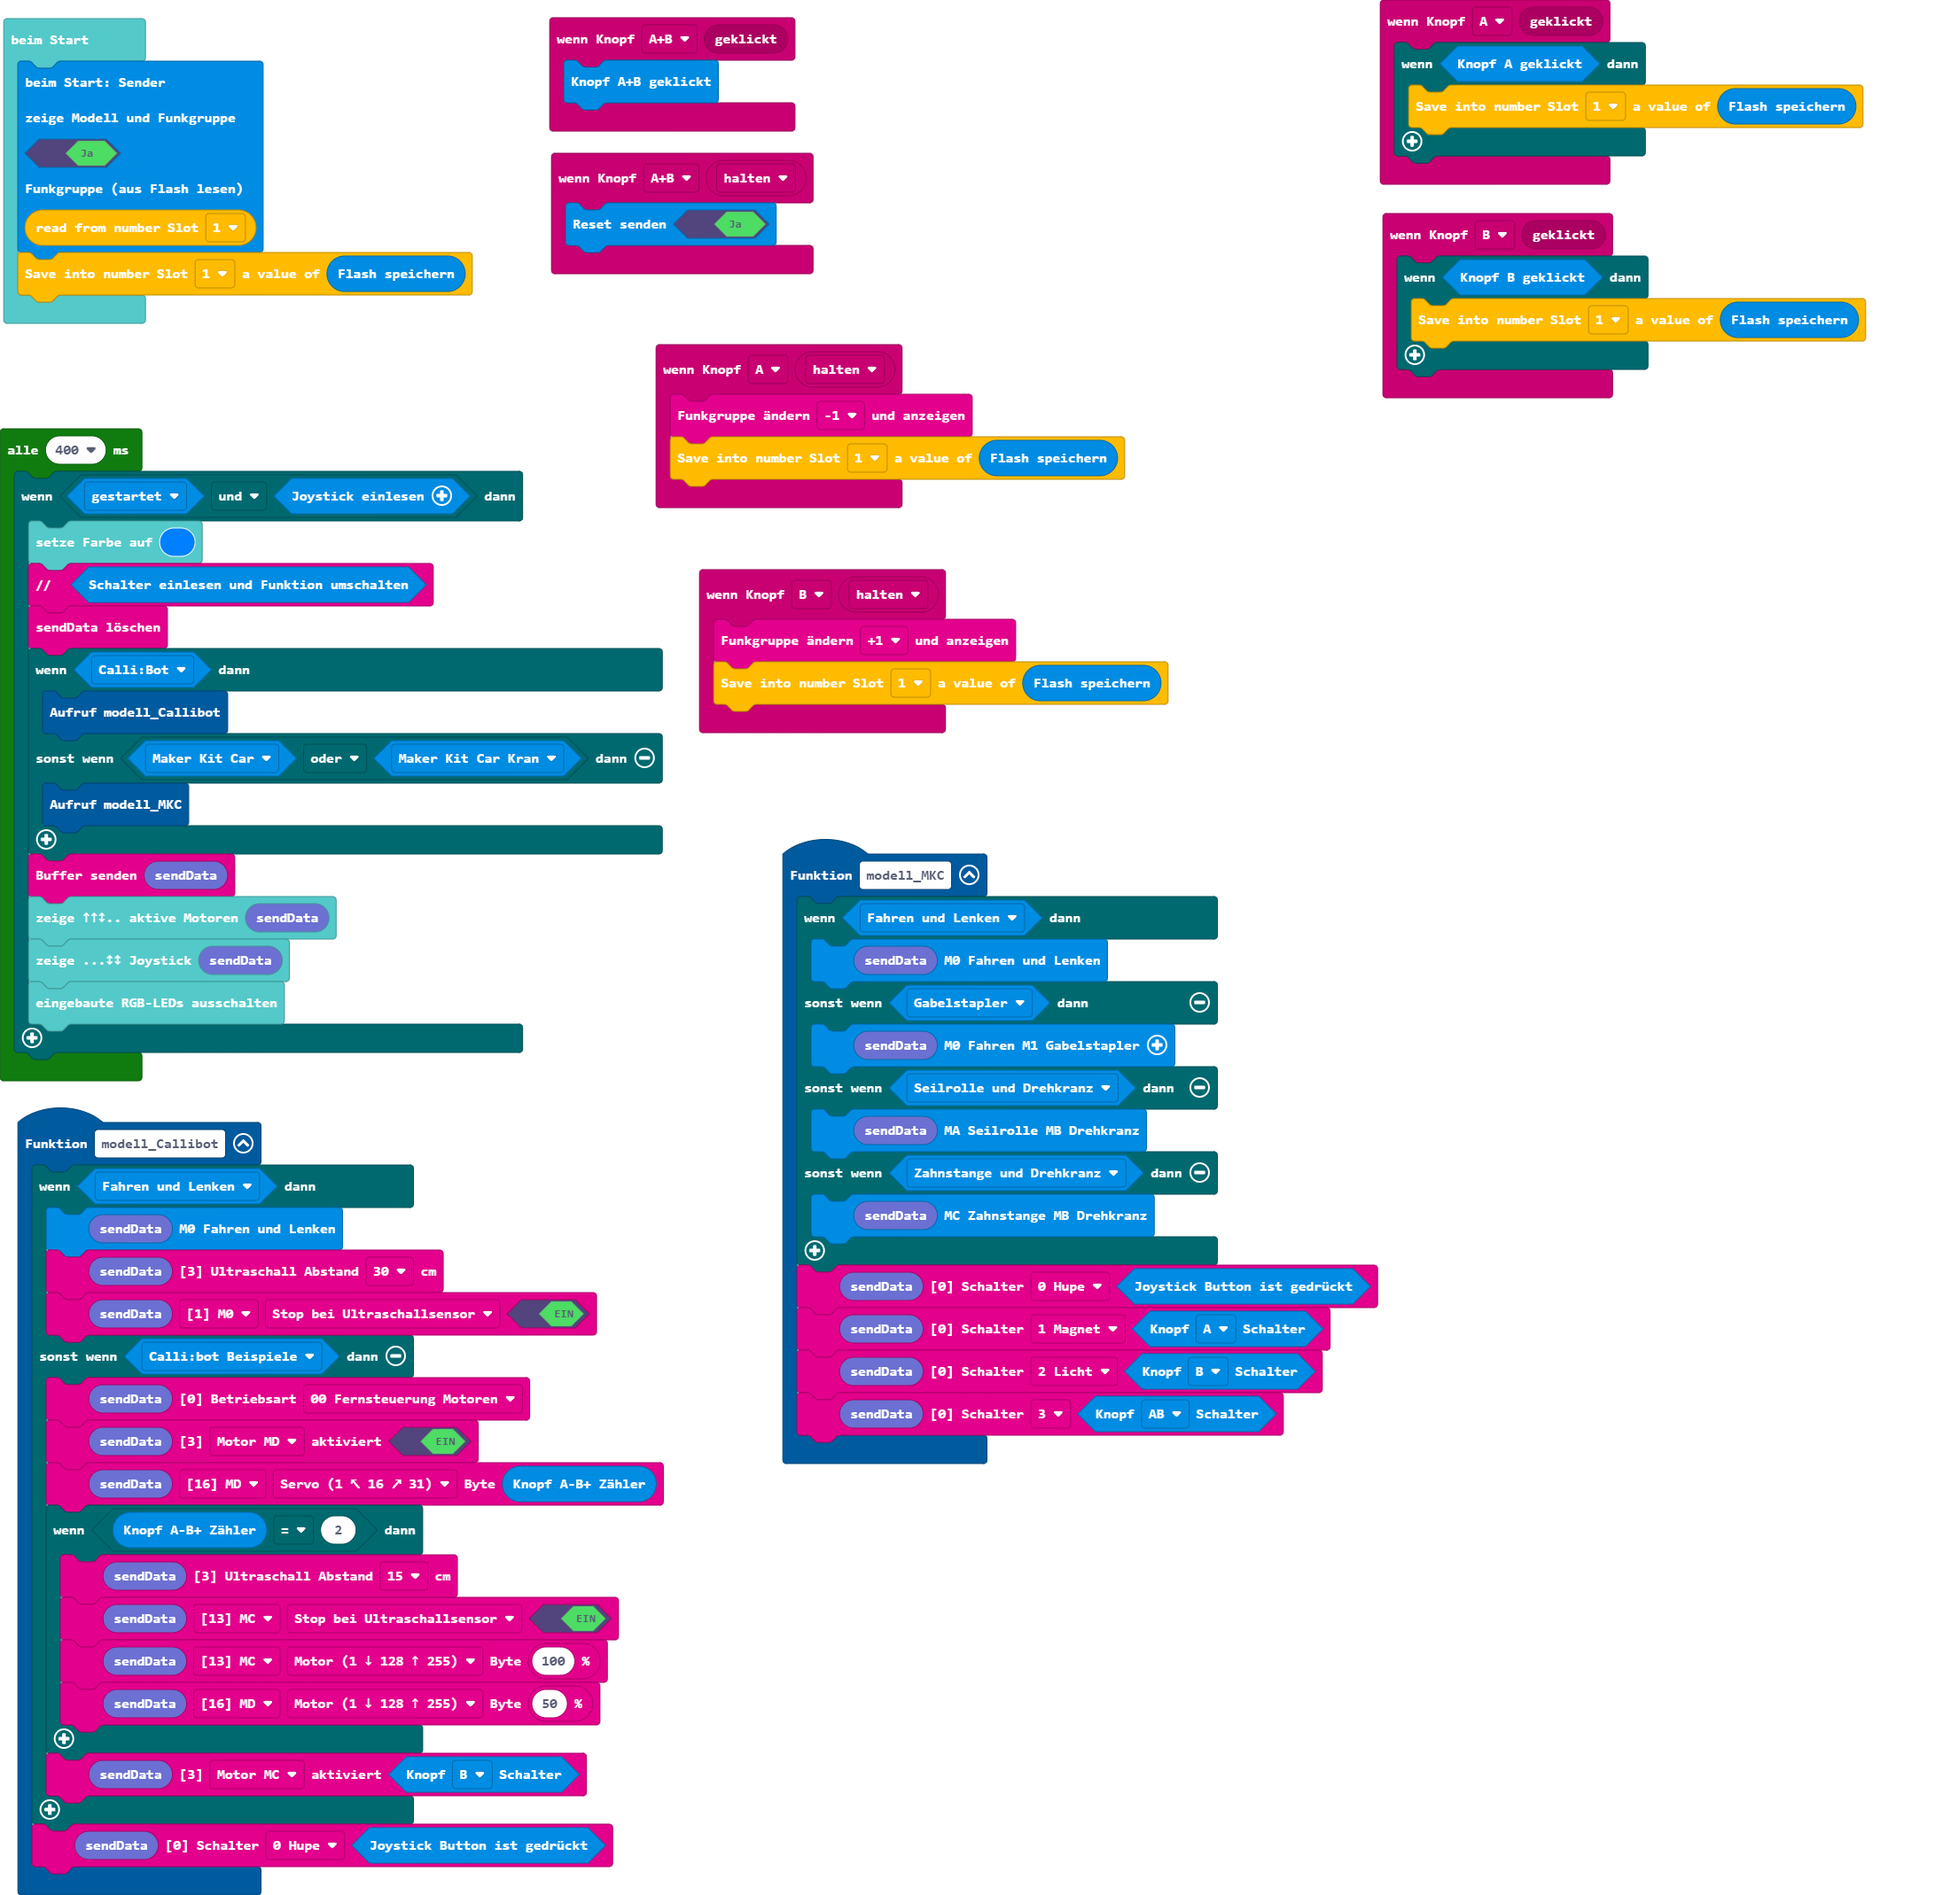
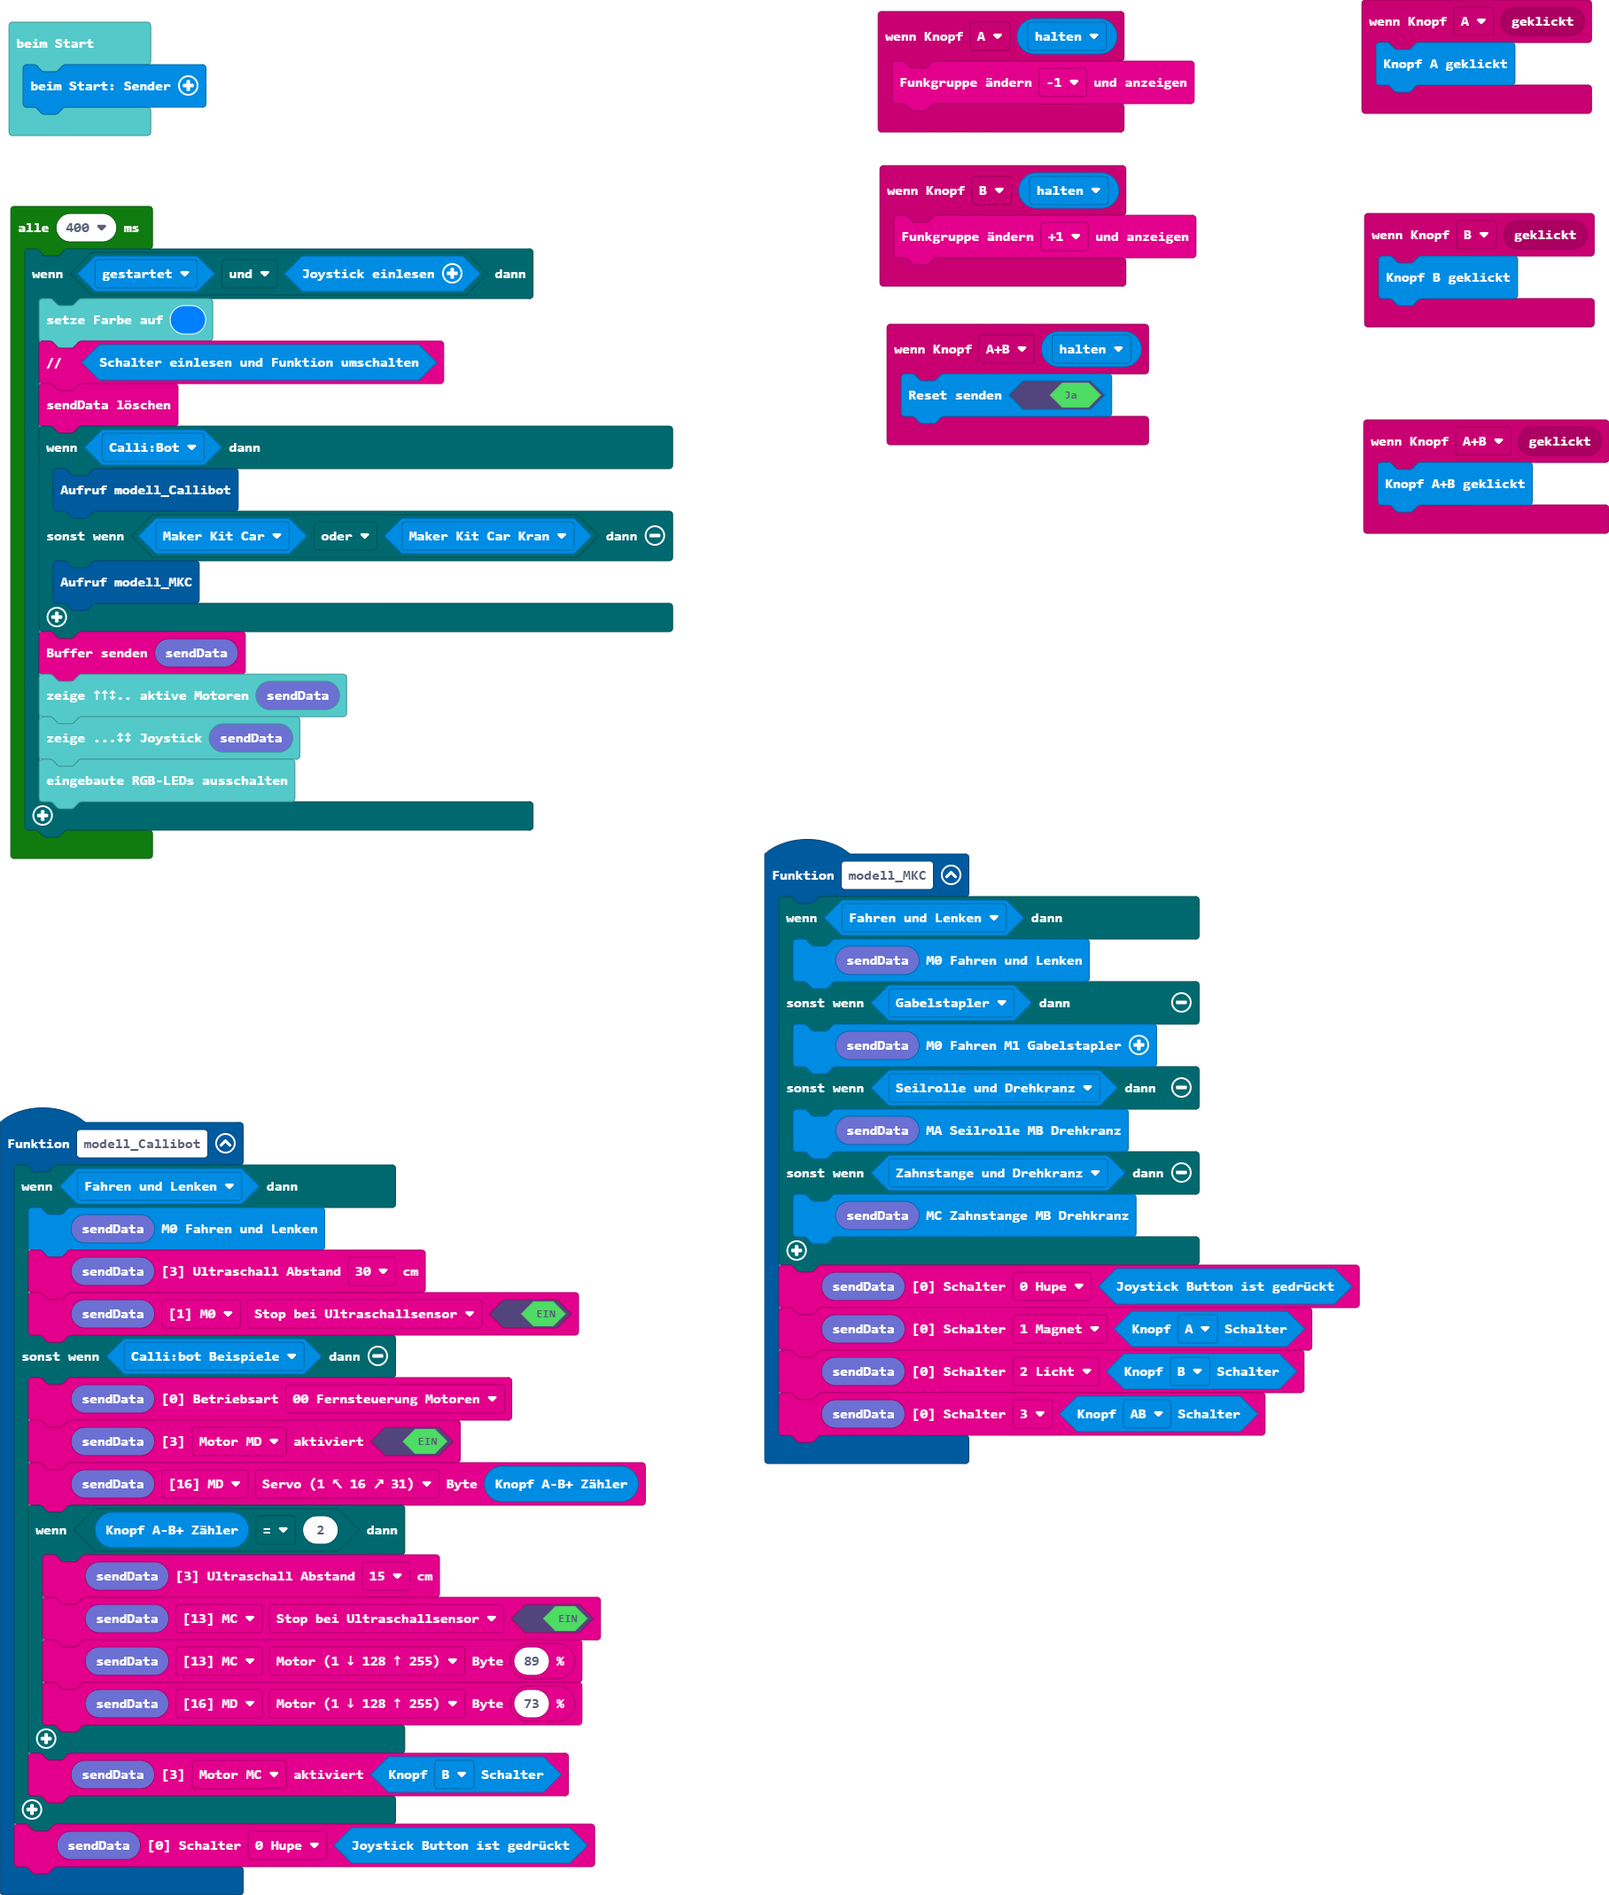
Aktualisiere pxt.json, main.blocks, main.ts

diff --git a/main.ts b/main.ts
@@ -1,79 +1,69 @@
 function modell_Callibot () {
     if (sender.isFunktion(sender.eFunktion.m0_s0)) {
-        sender.sendM0(radio.radio_sendBuffer19())
-        radio.setAbstand(radio.radio_sendBuffer19(), radio.e3Abstand.u3)
-        radio.setSensor(radio.radio_sendBuffer19(), radio.eBufferPointer.m0, radio.eSensor.b6, true)
+        sender.sendM0(btf.btf_sendBuffer19())
+        btf.setAbstand(btf.btf_sendBuffer19(), btf.e3Abstand.u3)
+        btf.setSensor(btf.btf_sendBuffer19(), btf.eBufferPointer.m0, btf.eSensor.b6, true)
     } else if (sender.isFunktion(sender.eFunktion.mc_md_callibot_beispiele)) {
-        radio.setBetriebsart(radio.radio_sendBuffer19(), radio.e0Betriebsart.p0)
-        radio.setaktiviert(radio.radio_sendBuffer19(), radio.e3aktiviert.md, true)
-        radio.setByte(radio.radio_sendBuffer19(), radio.eBufferPointer.md, radio.eBufferOffset.b1_Servo, sender.getButtonAB_Counter())
+        btf.setBetriebsart(btf.btf_sendBuffer19(), btf.e0Betriebsart.p0)
+        btf.setaktiviert(btf.btf_sendBuffer19(), btf.e3aktiviert.md, true)
+        btf.setByte(btf.btf_sendBuffer19(), btf.eBufferPointer.md, btf.eBufferOffset.b1_Servo, sender.getButtonAB_Counter())
         if (sender.getButtonAB_Counter() == 2) {
-            radio.setAbstand(radio.radio_sendBuffer19(), radio.e3Abstand.u1)
-            radio.setSensor(radio.radio_sendBuffer19(), radio.eBufferPointer.mc, radio.eSensor.b6, true)
-            radio.setByte(radio.radio_sendBuffer19(), radio.eBufferPointer.mc, radio.eBufferOffset.b0_Motor, radio.speedPicker(100))
-            radio.setByte(radio.radio_sendBuffer19(), radio.eBufferPointer.md, radio.eBufferOffset.b0_Motor, radio.speedPicker(50))
+            btf.setAbstand(btf.btf_sendBuffer19(), btf.e3Abstand.u1)
+            btf.setSensor(btf.btf_sendBuffer19(), btf.eBufferPointer.mc, btf.eSensor.b6, true)
+            btf.setByte(btf.btf_sendBuffer19(), btf.eBufferPointer.mc, btf.eBufferOffset.b0_Motor, btf.speedPicker(89))
+            btf.setByte(btf.btf_sendBuffer19(), btf.eBufferPointer.md, btf.eBufferOffset.b0_Motor, btf.speedPicker(73))
         }
-        radio.setaktiviert(radio.radio_sendBuffer19(), radio.e3aktiviert.mc, sender.getButtonAB_Switch(sender.eButtonAB_Switch.B))
+        btf.setaktiviert(btf.btf_sendBuffer19(), btf.e3aktiviert.mc, sender.getButtonAB_Switch(sender.eButtonAB_Switch.B))
     }
-    radio.setSchalter(radio.radio_sendBuffer19(), radio.e0Schalter.b0, sender.joystickButtonPosition())
+    btf.setSchalter(btf.btf_sendBuffer19(), btf.e0Schalter.b0, sender.joystickButtonPosition())
 }
 input.onButtonEvent(Button.A, input.buttonEventClick(), function () {
-    if (sender.buttonA()) {
-        storage.putNumber(StorageSlots.s1, sender.storageBufferGet())
-    }
+    sender.buttonA()
 })
 input.onButtonEvent(Button.AB, input.buttonEventClick(), function () {
     sender.buttonAB()
 })
+input.onButtonEvent(Button.B, sender.buttonEventValue(ButtonEvent.Hold), function () {
+    btf.setFunkgruppeButton(btf.eFunkgruppeButton.plus)
+})
 input.onButtonEvent(Button.B, input.buttonEventClick(), function () {
-    if (sender.buttonB()) {
-        storage.putNumber(StorageSlots.s1, sender.storageBufferGet())
-    }
+    sender.buttonB()
+})
+input.onButtonEvent(Button.AB, sender.buttonEventValue(ButtonEvent.Hold), function () {
+    sender.setSendReset(true)
+})
+input.onButtonEvent(Button.A, sender.buttonEventValue(ButtonEvent.Hold), function () {
+    btf.setFunkgruppeButton(btf.eFunkgruppeButton.minus)
 })
 function modell_MKC () {
     if (sender.isFunktion(sender.eFunktion.m0_s0)) {
-        sender.sendM0(radio.radio_sendBuffer19())
+        sender.sendM0(btf.btf_sendBuffer19())
     } else if (sender.isFunktion(sender.eFunktion.m0_m1_s0)) {
-        sender.sendM01(radio.radio_sendBuffer19())
+        sender.sendM01(btf.btf_sendBuffer19())
     } else if (sender.isFunktion(sender.eFunktion.ma_mb)) {
-        sender.sendMAB(radio.radio_sendBuffer19())
+        sender.sendMAB(btf.btf_sendBuffer19())
     } else if (sender.isFunktion(sender.eFunktion.mc_mb)) {
-        sender.sendMCB(radio.radio_sendBuffer19())
+        sender.sendMCB(btf.btf_sendBuffer19())
     }
-    radio.setSchalter(radio.radio_sendBuffer19(), radio.e0Schalter.b0, sender.joystickButtonPosition())
-    radio.setSchalter(radio.radio_sendBuffer19(), radio.e0Schalter.b1, sender.getButtonAB_Switch(sender.eButtonAB_Switch.A))
-    radio.setSchalter(radio.radio_sendBuffer19(), radio.e0Schalter.b2, sender.getButtonAB_Switch(sender.eButtonAB_Switch.B))
-    radio.setSchalter(radio.radio_sendBuffer19(), radio.e0Schalter.b3, sender.getButtonAB_Switch(sender.eButtonAB_Switch.AB))
+    btf.setSchalter(btf.btf_sendBuffer19(), btf.e0Schalter.b0, sender.joystickButtonPosition())
+    btf.setSchalter(btf.btf_sendBuffer19(), btf.e0Schalter.b1, sender.getButtonAB_Switch(sender.eButtonAB_Switch.A))
+    btf.setSchalter(btf.btf_sendBuffer19(), btf.e0Schalter.b2, sender.getButtonAB_Switch(sender.eButtonAB_Switch.B))
+    btf.setSchalter(btf.btf_sendBuffer19(), btf.e0Schalter.b3, sender.getButtonAB_Switch(sender.eButtonAB_Switch.AB))
 }
-input.onButtonEvent(Button.A, ButtonEvent.Hold, function () {
-    radio.setFunkgruppeButton(radio.eFunkgruppeButton.minus)
-    storage.putNumber(StorageSlots.s1, sender.storageBufferGet())
-})
-input.onButtonEvent(Button.B, ButtonEvent.Hold, function () {
-    radio.setFunkgruppeButton(radio.eFunkgruppeButton.plus)
-    storage.putNumber(StorageSlots.s1, sender.storageBufferGet())
-})
-input.onButtonEvent(Button.AB, ButtonEvent.Hold, function () {
-    sender.setSendReset(true)
-})
-sender.beimStart(
-true,
-storage.getNumber(StorageSlots.s1)
-)
-storage.putNumber(StorageSlots.s1, sender.storageBufferGet())
+sender.beimStart()
 loops.everyInterval(400, function () {
     if (sender.isFunktion(sender.eFunktion.ng) && sender.joystickQwiic()) {
         basic.setLedColor(0x007fff)
-        radio.comment(sender.multiswitchGrove())
-        radio.fill_sendBuffer19()
+        btf.comment(sender.multiswitchGrove())
+        btf.fill_sendBuffer19()
         if (sender.isModell(sender.eModell.cb2e)) {
             modell_Callibot()
         } else if (sender.isModell(sender.eModell.mkcg) || sender.isModell(sender.eModell.mkck)) {
             modell_MKC()
         }
-        radio.sendData(radio.radio_sendBuffer19())
-        radio.zeige5x5Buffer(radio.radio_sendBuffer19())
-        radio.zeige5x5Joystick(radio.radio_sendBuffer19())
+        btf.sendData(btf.btf_sendBuffer19())
+        btf.zeige5x5Buffer(btf.btf_sendBuffer19())
+        btf.zeige5x5Joystick(btf.btf_sendBuffer19())
         basic.turnRgbLedOff()
     }
 })
